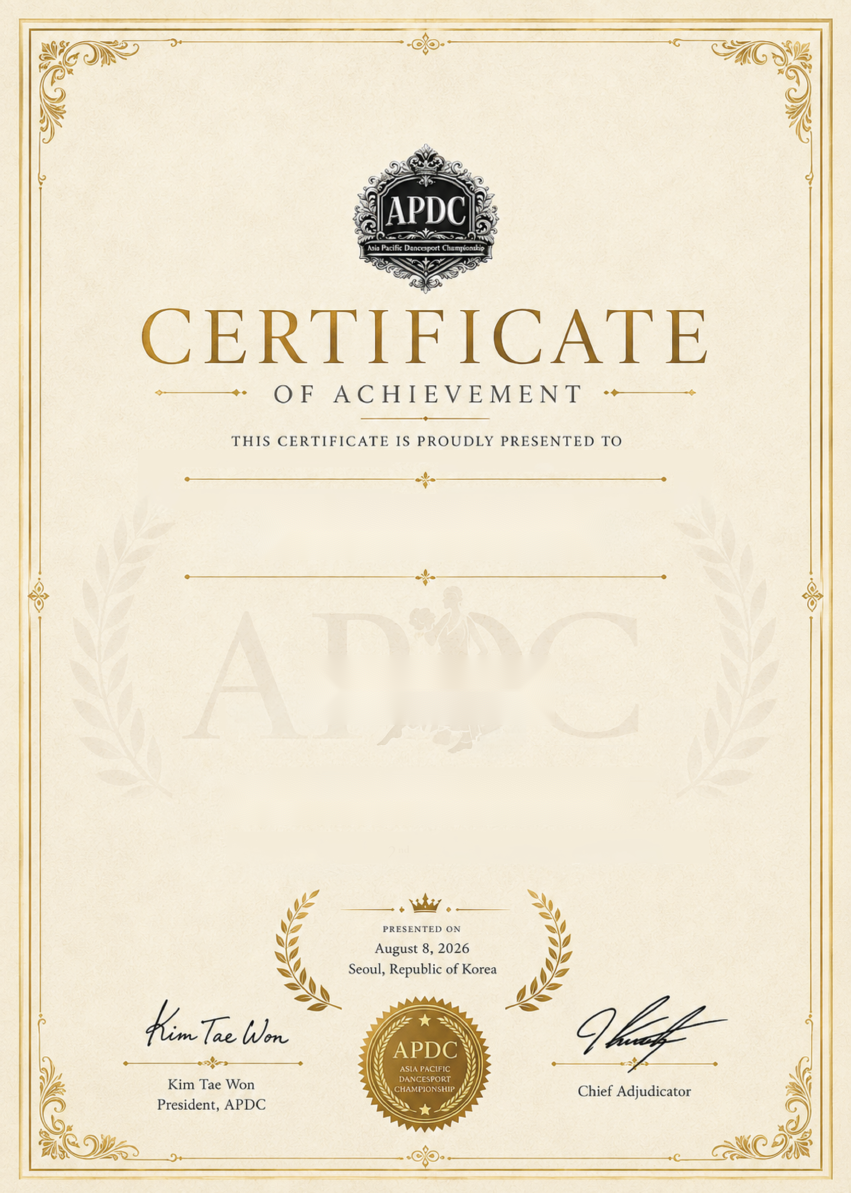
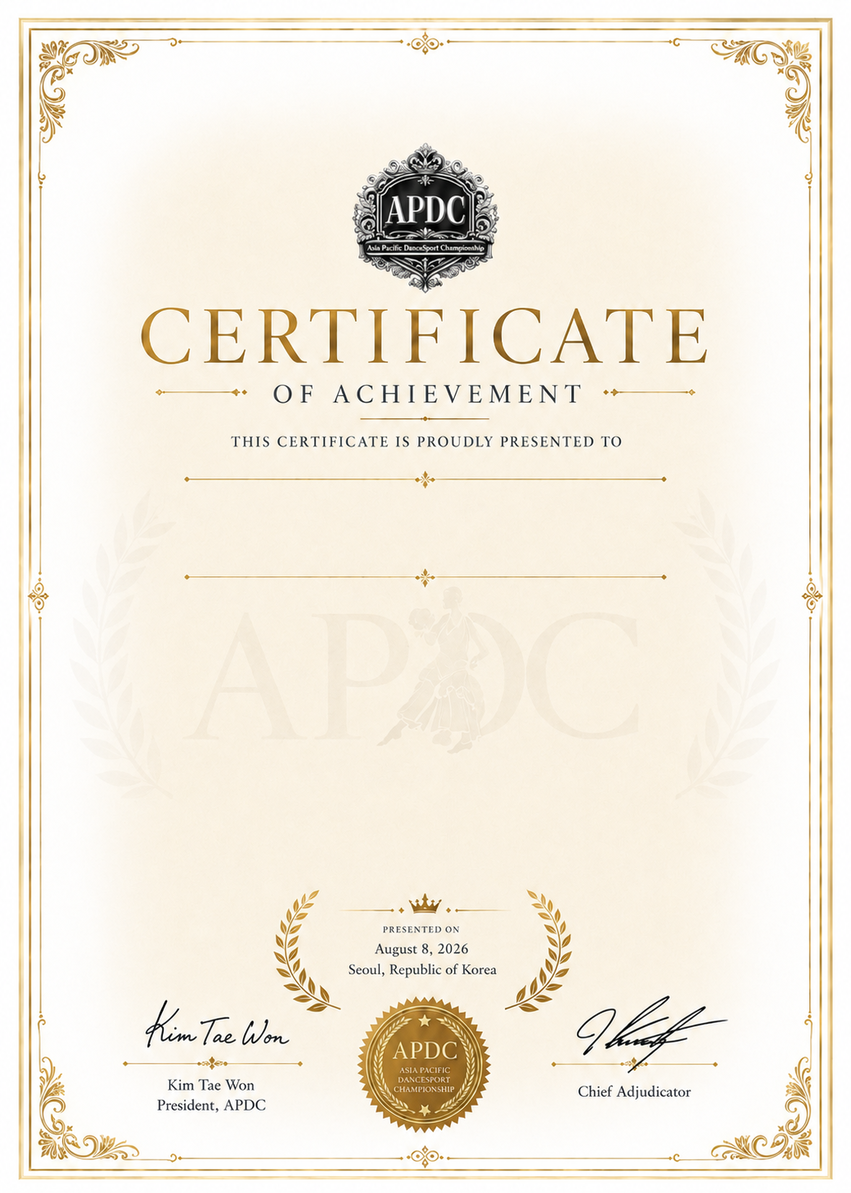
Add files via upload

diff --git a/certificate.html b/certificate.html
@@ -37,7 +37,7 @@ button.light{background:#fff;color:#111}.gold{background:#9b6f17;border-color:#9
 .check{width:18px;height:18px}
 .preview-panel{display:grid;grid-template-columns:minmax(0,1fr) 320px;gap:22px;margin-top:24px}
 .preview-shell{background:#ddd;padding:16px;overflow:auto}
-.certificate{position:relative;width:min(100%,794px);aspect-ratio:210/297;margin:auto;background:#fff;box-shadow:0 8px 30px #0002;overflow:hidden}.certificate-bg{position:absolute;left:50%;top:50%;width:103%;height:102%;transform:translate(-50%,-50%);object-fit:fill;z-index:0}.certificate .cover{z-index:2}
+.certificate{position:relative;width:min(100%,794px);aspect-ratio:210/297;margin:auto;background:#fff;box-shadow:0 8px 30px #0002;overflow:hidden}.certificate-bg{position:absolute;inset:0;width:100%;height:100%;object-fit:fill;z-index:0;transform:scale(1.04);transform-origin:center center}.certificate .cover{z-index:2}
 .cover{position:absolute;background:transparent;display:flex;align-items:center;justify-content:center;text-align:center}
 .name-cover{left:20%;top:41.0%;width:60%;height:7%;font-family:Georgia,'Times New Roman',serif;font-size:clamp(25px,4.4vw,52px);font-weight:700;color:#8b5a2b;padding:0 8px;background:transparent}
 .event-cover{left:18%;top:64.3%;width:64%;height:5.5%;font-family:Georgia,'Times New Roman',serif;font-size:clamp(16px,2.35vw,28px);font-weight:600;color:#a36b1c;padding:0 6px;background:transparent}
@@ -59,8 +59,8 @@ button.light{background:#fff;color:#111}.gold{background:#9b6f17;border-color:#9
  @page{size:A4 portrait;margin:0}
  body{background:#fff}
  .judge-integrated-nav,.topbar,.wrap{display:none!important}.batch-holder{display:block!important}
- .print-certificate{position:relative;width:210mm;height:296.5mm;break-after:page;page-break-after:always;background:#fff;overflow:hidden;-webkit-print-color-adjust:exact;print-color-adjust:exact}.print-certificate .certificate-bg{position:absolute;left:50%;top:50%;width:216.3mm;height:302.43mm;transform:translate(-50%,-50%);object-fit:fill;z-index:0}.print-certificate .cover{z-index:2}
- .print-certificate:last-child{break-after:auto;page-break-after:auto}
+ .print-certificate{position:relative;width:210mm;height:297mm;page-break-after:always;background:#fff;overflow:hidden;-webkit-print-color-adjust:exact;print-color-adjust:exact}.print-certificate .certificate-bg{position:absolute;inset:0;width:210mm;height:297mm;object-fit:fill;z-index:0;transform:scale(1.04);transform-origin:center center}.print-certificate .cover{z-index:2}
+ .print-certificate:last-child{page-break-after:auto}
  .print-certificate .cover{background:transparent}
  .print-certificate .name-cover{left:20%;top:41.0%;width:60%;height:7%;font-family:Georgia,'Times New Roman',serif;font-size:13mm;font-weight:700;color:#8b5a2b;padding:0 8px}
  .print-certificate .event-cover{left:18%;top:64.3%;width:64%;height:5.5%;font-family:Georgia,'Times New Roman',serif;font-size:5.7mm;font-weight:600;color:#a36b1c;padding:0 6px}
@@ -130,7 +130,7 @@ button.light{background:#fff;color:#111}.gold{background:#9b6f17;border-color:#9
   </div>
   <div class="preview-panel">
    <div class="preview-shell">
-    <div class="certificate"><img class="certificate-bg" src="APDC_Certificate_Background_v2.png?v=20260810-1618" alt=""><div id="pName" class="cover name-cover">Select a result</div><div id="pEvent" class="cover event-cover">Event</div><div id="pPlace" class="cover place-cover">Place</div></div>
+    <div class="certificate"><img class="certificate-bg" src="APDC_Certificate_Background_v2.png?v=20260810-1807" alt=""><div id="pName" class="cover name-cover">Select a result</div><div id="pEvent" class="cover event-cover">Event</div><div id="pPlace" class="cover place-cover">Place</div></div>
    </div>
    <aside class="side">
     <h3>SELECTED CERTIFICATE</h3>
@@ -141,7 +141,7 @@ button.light{background:#fff;color:#111}.gold{background:#9b6f17;border-color:#9
      <dt>DATE</dt><dd>August 8, 2026</dd>
     </dl>
     <div class="actions"><button id="printCurrent">PRINT THIS CERTIFICATE</button><button id="clearSel" class="light">CLEAR SELECTION</button></div>
-    <div class="note">A4 세로 / 배율 100% / 여백 없음으로 인쇄하세요. 테두리를 용지 가장자리 쪽으로 확장하고 빈 추가 페이지가 생기지 않도록 수정되었습니다. 그룹을 선택한 뒤 PRINT THIS GROUP을 누르면 해당 그룹 상장 전체가 연속 출력됩니다.</div>
+    <div class="note">A4 세로 / 배율 100% / 여백 없음으로 인쇄하세요. 전체 상장 디자인이 한 장 이미지로 직접 출력되도록 수정되었습니다. 그룹을 선택한 뒤 PRINT THIS GROUP을 누르면 해당 그룹 상장 전체가 연속 출력됩니다.</div>
    </aside>
   </div>
  </div>
@@ -176,7 +176,7 @@ function renderRows(){
 }
 function showPreview(r){$('pName').textContent=r.name;$('pEvent').textContent=r.event;$('pPlace').textContent=r.place.toUpperCase();$('dName').textContent=r.name;$('dBack').textContent=r.backNo||'—';$('dEvent').textContent=r.event;$('dPlace').textContent=r.place;$('dGroup').textContent=r.group;$('dCert').textContent=r.certNo||'—'}
 function updateSelectedStatus(){$('selectedStatus').textContent=selected.size+' selected'}
-function certHTML(r){return `<section class="print-certificate"><img class="certificate-bg" src="APDC_Certificate_Background_v2.png?v=20260810-1618" alt=""><div class="cover name-cover">${esc(r.name)}</div><div class="cover event-cover">${esc(r.event)}</div><div class="cover place-cover">${esc(r.place).toUpperCase()}</div></section>`}
+function certHTML(r){return `<section class="print-certificate"><img class="certificate-bg" src="APDC_Certificate_Background_v2.png?v=20260810-1807" alt=""><div class="cover name-cover">${esc(r.name)}</div><div class="cover event-cover">${esc(r.event)}</div><div class="cover place-cover">${esc(r.place).toUpperCase()}</div></section>`}
 function doPrint(arr){if(!arr.length)return alert('출력할 상장이 없습니다.');$('batchHolder').innerHTML=arr.map(certHTML).join('');setTimeout(()=>window.print(),100)}
 $('q').addEventListener('input',applyFilters);
 $('groupFilter').addEventListener('change',()=>{selected.clear();applyFilters()});
